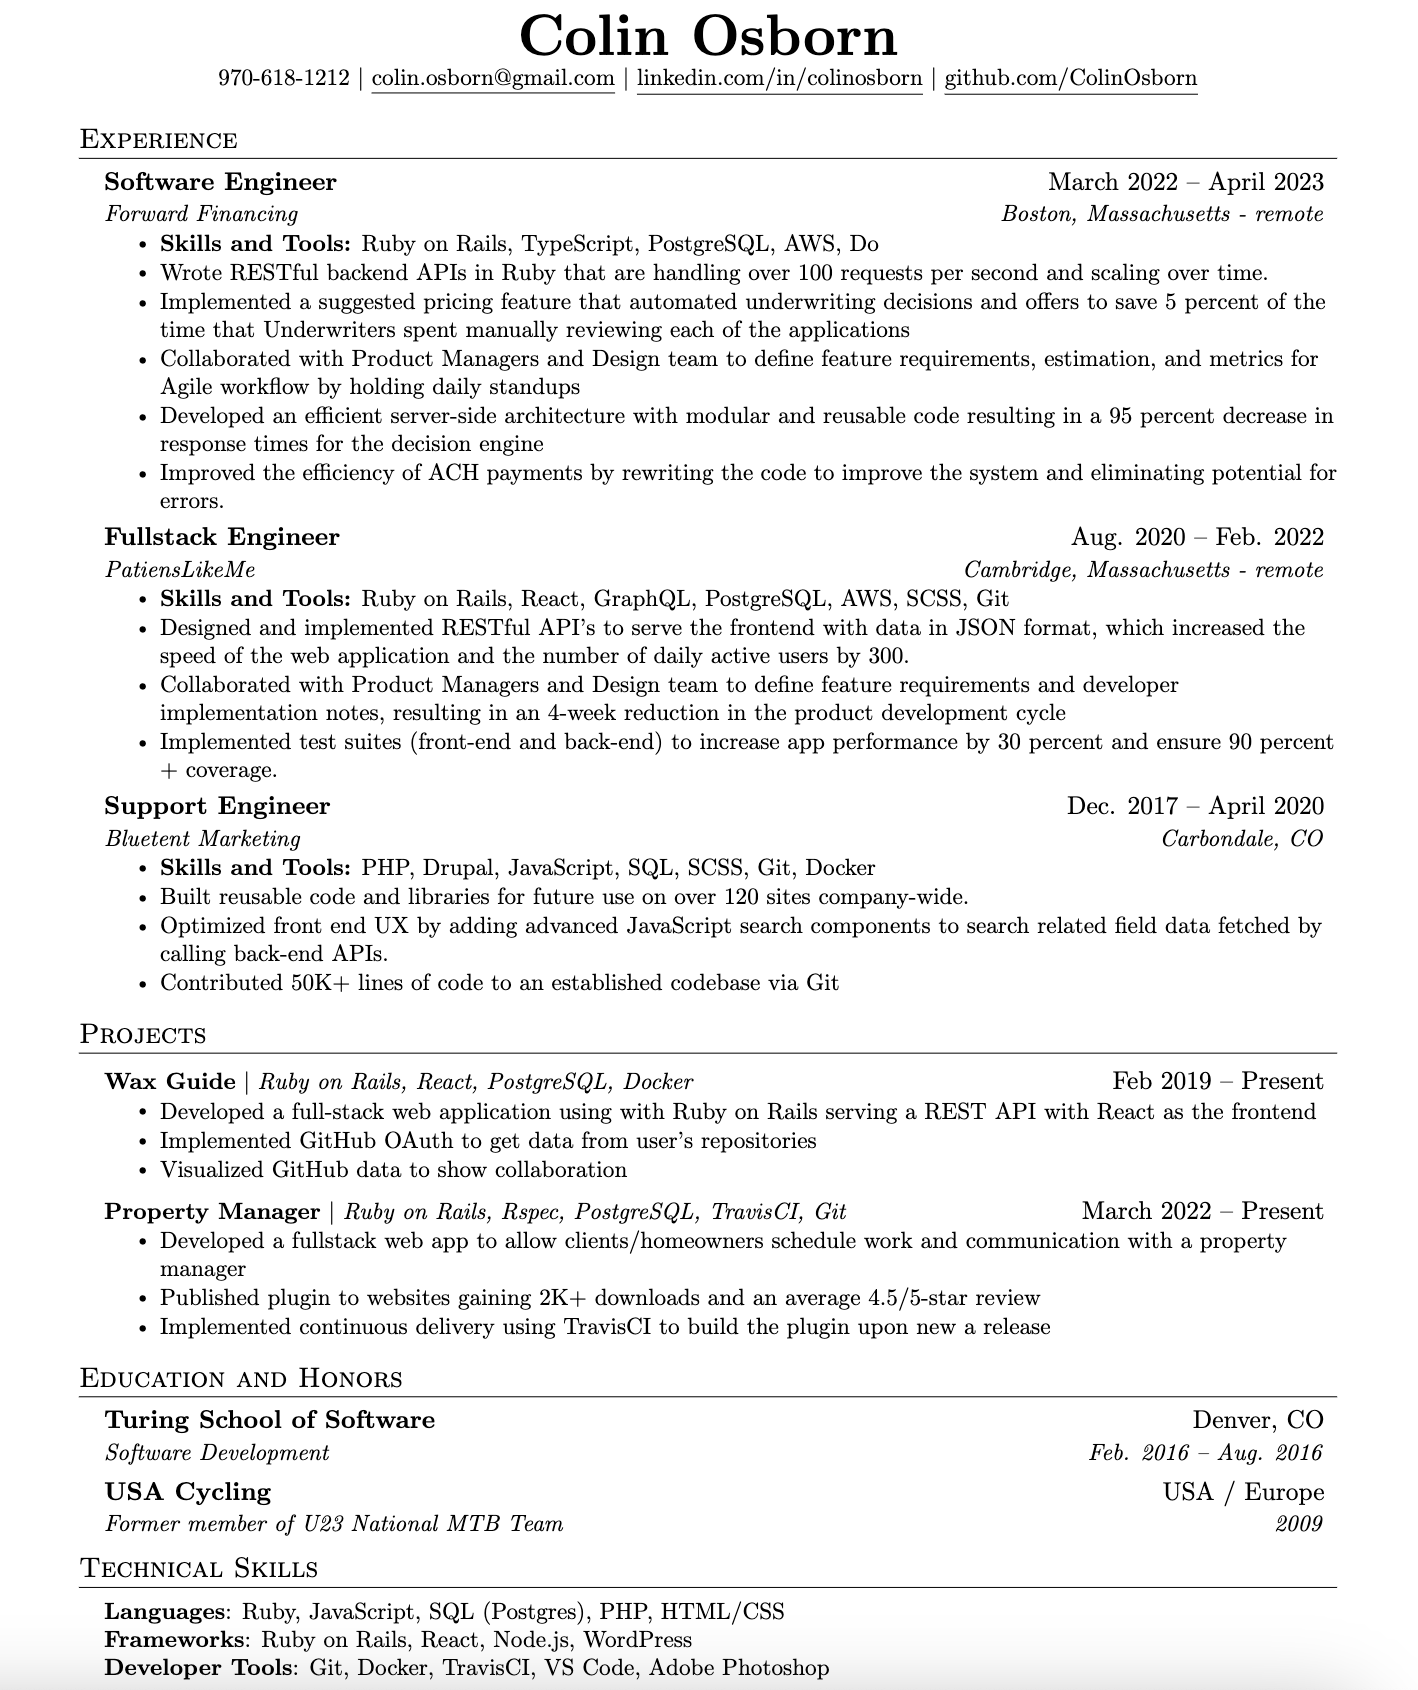
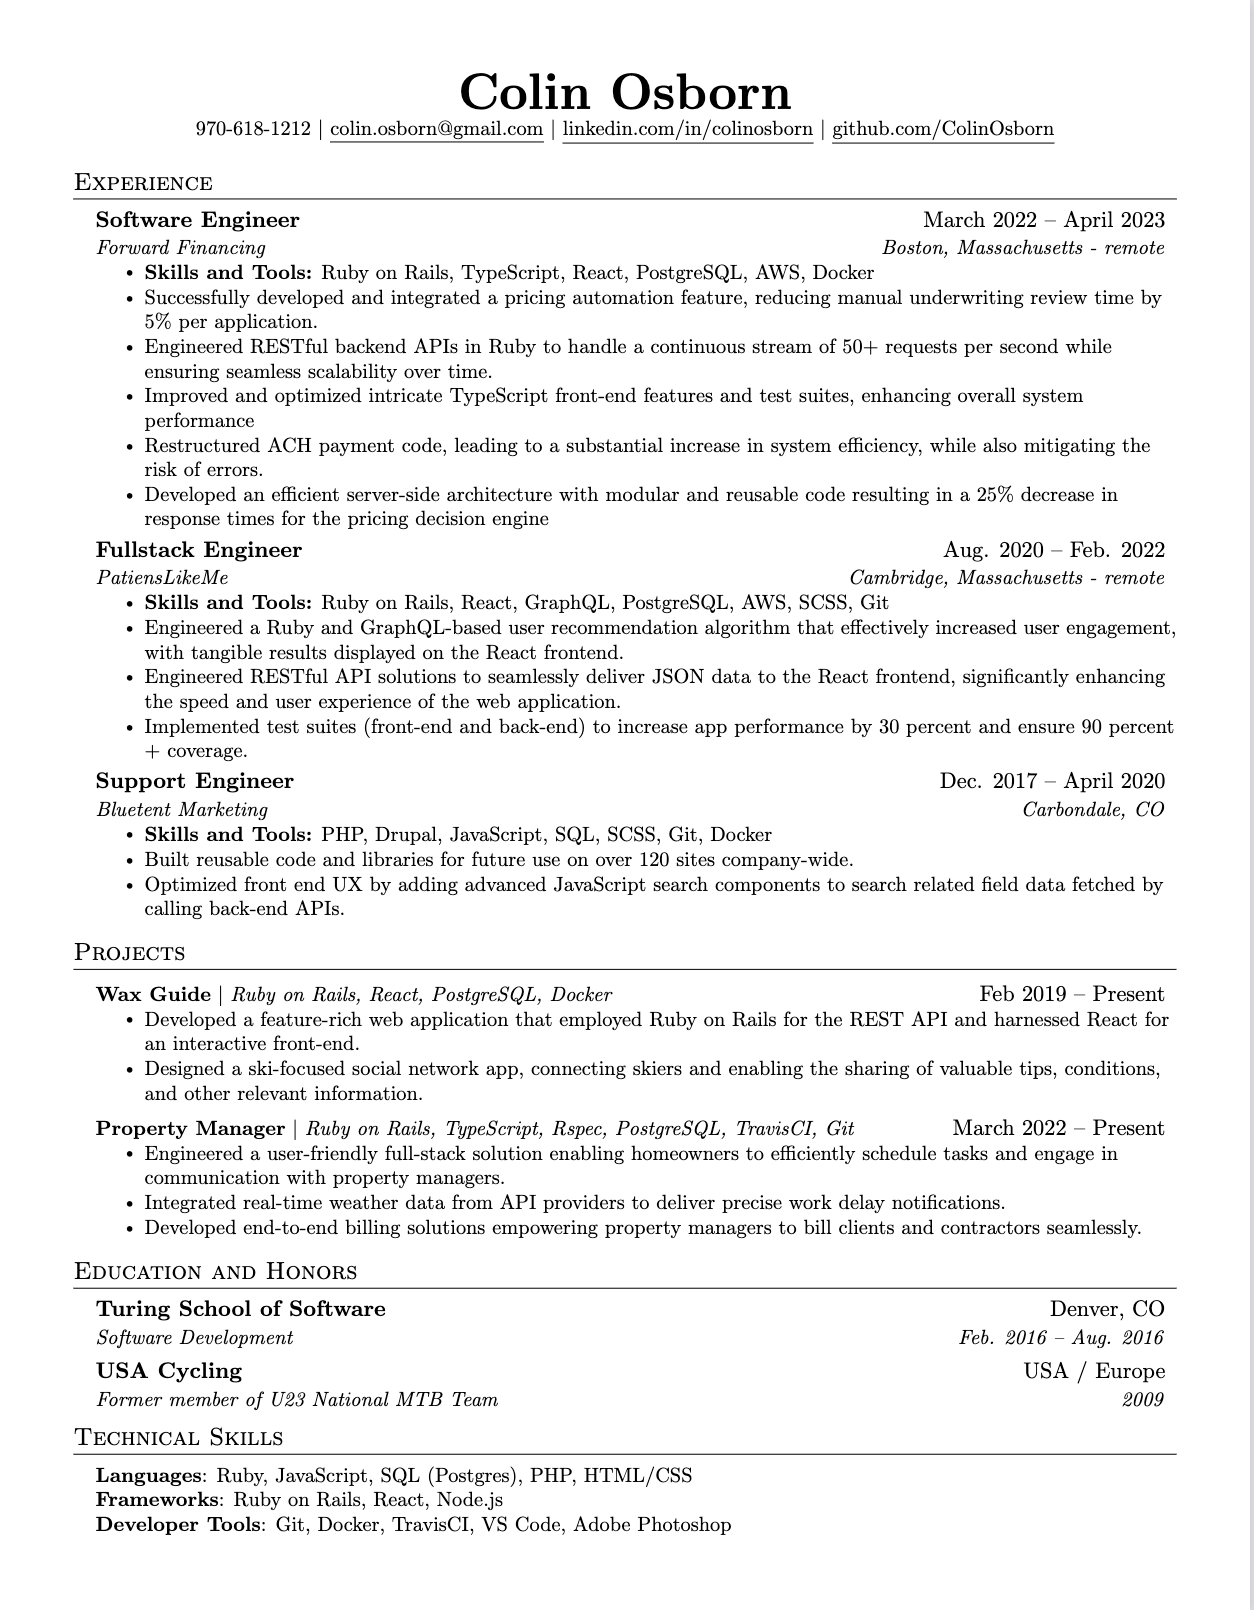
updated screenshots with new deatils and bullet points

Changed region(s): [[0.0622, 0.0, 0.933, 0.9938], [0.9952, 0.0, 1.0, 1.0], [0.7775, 0.8075, 0.933, 0.9317]]

diff --git a/resume.tex b/resume.tex
@@ -121,7 +121,6 @@
 %-----------EXPERIENCE-----------
 \section{Experience}
   \resumeSubHeadingListStart
-
     \resumeSubheading
       {Software Engineer}{March 2022 -- April 2023}
       {Forward Financing}{Boston, Massachusetts - remote}
@@ -161,11 +160,9 @@
         \resumeItem{\textbf{Skills and Tools:} PHP, Drupal, JavaScript, SQL, SCSS, Git, Docker}
         \resumeItem{Built reusable code and libraries for future use on over 120 sites company-wide.}
         \resumeItem{Optimized front end UX by adding advanced JavaScript search components to search related field data fetched by calling back-end APIs.}
-        \resumeItem{Contributed 50K+ lines of code to an established codebase via Git}
       \resumeItemListEnd
 
   \resumeSubHeadingListEnd
-
 
 %-----------PROJECTS-----------
 \section{Projects}
@@ -173,19 +170,17 @@
       \resumeProjectHeading
           {\textbf{Wax Guide} $|$ \emph{Ruby on Rails, React, PostgreSQL, Docker}}{Feb 2019 -- Present}
           \resumeItemListStart
-            \resumeItem{Developed a full-stack web application using with Ruby on Rails serving a REST API with React as the frontend}
-            \resumeItem{Designed and integrated a machine learning model to streamline the process of selecting the most suitable ski wax, resulting in improved skiing outcomes.}
-            \resumeItem{Designed and launched a ski-focused social network app, connecting skiers and enabling the sharing of valuable tips, conditions, and other relevant information.}
+            \resumeItem{Developed a feature-rich web application that employed Ruby on Rails for the REST API and harnessed React for an interactive front-end.}
+            \resumeItem{Designed a ski-focused social network app, connecting skiers and enabling the sharing of valuable tips, conditions, and other relevant information.}
           \resumeItemListEnd
       \resumeProjectHeading
-          {\textbf{Property Manager} $|$ \emph{Ruby on Rails, Rspec, PostgreSQL, TravisCI, Git}}{March 2022 -- Present}
+          {\textbf{Property Manager} $|$ \emph{Ruby on Rails, TypeScript, Rspec, PostgreSQL, TravisCI, Git}}{March 2022 -- Present}
           \resumeItemListStart
-            \resumeItem{Engineered a user-friendly full-stack web solution enabling clients and homeowners to efficiently schedule tasks and engage in transparent communication with property managers.}
+            \resumeItem{Engineered a user-friendly full-stack solution enabling homeowners to efficiently schedule tasks and engage in communication with property managers.}
             \resumeItem{Integrated real-time weather data from API providers to deliver precise work delay notifications.}
             \resumeItem{Developed end-to-end billing solutions empowering property managers to bill clients and contractors seamlessly.}
           \resumeItemListEnd
     \resumeSubHeadingListEnd
-
 
 %-----------EDUCATION-----------
 \section{Education and Honors}
@@ -197,14 +192,13 @@
       {USA Cycling}{USA / Europe}
       {Former member of U23 National MTB Team}{2009}
   \resumeSubHeadingListEnd
-
 %
 %-----------PROGRAMMING SKILLS-----------
 \section{Technical Skills}
  \begin{itemize}[leftmargin=0.15in, label={}]
     \small{\item{
      \textbf{Languages}{: Ruby, JavaScript, SQL (Postgres), PHP, HTML/CSS} \\
-     \textbf{Frameworks}{: Ruby on Rails, React, Node.js, WordPress} \\
+     \textbf{Frameworks}{: Ruby on Rails, React, Node.js} \\
      \textbf{Developer Tools}{: Git, Docker, TravisCI, VS Code, Adobe Photoshop} \\
     }}
  \end{itemize}
